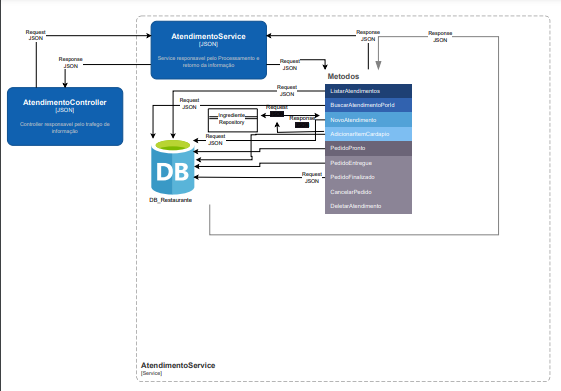
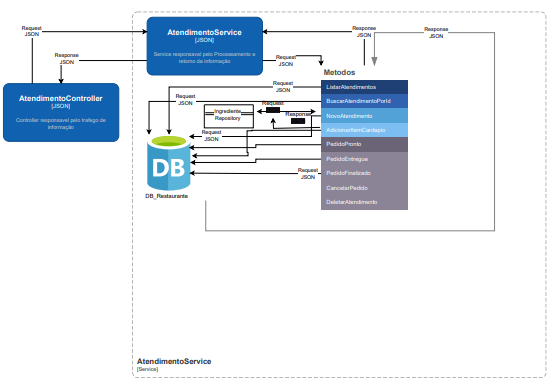
Documentação Iniciada
Imagens revisadas e atualizadas conforme necessidade, textos inseridos estaticamente na pagina index, tendo em vista a função da pagina não sendo visto neste momento a utilização de mecanismo de inserção dinâmico

diff --git a/Restaurante/src/main/resources/templates/index.html b/Restaurante/src/main/resources/templates/index.html
@@ -3,7 +3,6 @@
     <head>
         <meta charset="UTF-8" />
         <meta name="viewport" content="width=device-width,initial-scale=1.0,minimum-scale=1.0" />
-        <link rel="stylesheet" type="text/css" href="./CSS/index.css">
         <title>API RESTAURANTE/LANCHONETE</title>
         <style>
             @import url('https://cdn.jsdelivr.net/npm/reset-css@5.0.1/reset.min.css');
@@ -26,13 +25,15 @@
 
             section{ width: 100%;height: auto;}
 
-            .conteudobox{width: 90%;height: auto;;margin: 0 auto;}
+            .conteudobox{width: 90%;height: auto;margin: 0 auto; text-align: center;}
 
             .conteudobox h2{font-family: 'Segoe UI', Tahoma, Geneva, Verdana, sans-serif;font-size: 30px;margin: 25px;}
 
-            .conteudobox p{font-size: 18px;font-family: 'Lucida Sans', 'Lucida Sans Regular', 'Lucida Grande', 'Lucida Sans Unicode', Geneva, Verdana, sans-serif; color: black;}
+            .conteudobox p{ text-indent:2em; line-height: 2em;  margin-top: 15px; margin-bottom: 15px; text-align: justify;  font-family: 'Lucida Sans', 'Lucida Sans Regular', 'Lucida Grande', 'Lucida Sans Unicode', Geneva, Verdana, sans-serif; color: black;}
 
-            .conteudobox ul, li{font-size: 18px;font-family: 'Lucida Sans', 'Lucida Sans Regular', 'Lucida Grande', 'Lucida Sans Unicode', Geneva, Verdana, sans-serif;   color: black;}
+            .conteudobox ul, li{line-height: 2em; list-style: circle;  text-align: left; font-size: 18px;font-family: 'Lucida Sans', 'Lucida Sans Regular', 'Lucida Grande', 'Lucida Sans Unicode', Geneva, Verdana, sans-serif;   color: black;}
+            
+            img{margin: 15px;}
         </style>
     </head>
     <body>
@@ -44,57 +45,128 @@
 
                 <nav>
                     <div class="navbox">
-                        <a href="">Inicio</a>
-                        <a href="">Problema</a>
-                        <a href="">Objetivo</a>
-                        <a href="">Diagramas</a>
-                        <a href="">Regra de negócio</a>
-                        <a href="">Manual</a>
-                        <a href="">Contato</a>
+                        <a href="#Home">Inicio</a>
+                        <a href="#Problema">Problema</a>
+                        <a href="#Objetivo">Objetivo</a>
+                        <a href="#Diagramas">Diagramas</a>
+                        <a href="#Regra_negocio">Regra de negócio</a>
+                        <a href="#Manual">Manual</a>
+                        <a href="#Contato">Contato</a>
                     </div>
                 </nav>
 
             </div>
 
-            <section>
+            <section id="Home">
                 
                 <div class="conteudobox">
-                    <h2>PROBLEMA</h2>
+                    <h2 id="Problema">PROBLEMA</h2>
+                    <p>
+                        A gerência de um estabelecimento da área de alimentação, requer uma gerência, complexa, pelo fato de ser vários setores se conversando e trocando informações entre si, de modo que um depende totalmente do bom desempenho do outro.                    </p>
+                    <p>
+                        O fator Humano requer um treinamento adequado, claro e objetivo, de modo que todos os integrantes da equipe saibam suas funções, direitos e deveres, já o fator Sistema que manipula, gerencia as informações produzidas pelas equipes, requer um ajuste fino, adaptado e adequado a cada setor, em relação aquela empresa em questão, pois o funcionamento de cada empreendimento independente o porte e o tamanho funciona de maneira única.                    </p>
+                    <p>
+                        A análise das funções básicas nos trás ao problema de gerência de estoque, precificação dos produtos, de maneira a garantir o funcionamento saudável do negócio.                    </p>
+                </div>
+
+                <div class="conteudobox">
+                    <h2 id="Objetivo">OBJETIVO</h2>
+                    <p>
+                        Possibilitar ao administrador, e sua equipe, uma ferramenta capaz de auxiliar, em funções que devem ser automatizadas, fazendo assim que os membros das equipes desempenhar as funções sabendo que há um sistema para atende-los dando suporte aos mesmos.                    </p>
+                    <p>
+                        garantir que haja uma base automatizada para cálculos internos, do cadastro da nota fiscal com a segurança de que não haja erro de valores, pois internamente há fatores que impossibilitam o erro, trazendo segurança e transparência, e evitando problemas no calculo financeiro posteriormente.                     </p>
+                    <p>
+                        A Precificação dos produtos é baseada em porcentagem aplicadas internamente, no ato do cadastro de produtos(matéria prima para particionamento em ingredientes) e novamente na união dos ingredientes em itens disponíveis no cardápio valorizando assim o trabalho das equipes envolvidas.                    </p>
+                </div>
+
+                <div class="conteudobox">
+                    <h2 id="Diagramas">DIAGRAMAS</h2>
+                        <img width="70%"height="400px" src="./Imagem/d1.PNG"/>
+                        <img width="70%"height="350px" src="./Imagem/d2.PNG"/>
+                        <img width="70%"height="350px" src="./Imagem/d3.PNG"/>
+                        <img width="70%"height="350px" src="./Imagem/d4.PNG"/>
+                        <img width="70%"height="350px" src="./Imagem/d5.PNG"/>
+                        <img width="70%"height="350px" src="./Imagem/d6.PNG"/>
+                        <img width="70%"height="350px" src="./Imagem/d7.PNG"/>
+                </div>
+
+                <div class="conteudobox">
+                    <h2 id="Regra_negocio">REGRAS DE NEGÓCIO</h2>
+                    <p>
+                        <h2>1.Fornecedor</h2>
+                        <ul>
+                            <li>1.1 - Os campos não podem ser nulos</li>
+                            <li>1.2 - A data de início  de contrato deve ser inserida no formato: dd/mm/aaaa exemplo: 10/02/2024 </li>
+                            <li>1.3 - O campo CNPJ não deve conter letras</li>
+                            <li>1.4 - O campos Telefone não deve conter letras</li>
+                            <li>1.5 - Os campos Email deve ser um email válido para contato</li>
+                            <li>1.6 - Os campos CEP deve conter apenas números</li>
+                            <li>1.7 - As datas de controle são obtidas automaticamente pelo sistema</li>
+                        </ul>
+                    </p>
+                    <p>
+                        <h2>2.Nota Fiscal</h2>
+                        <ul>
+                            <li>2.1 - Os campos não podem ser nulos</li>
+                            <li>2.2 - O Fornecedor deve ter sido inserida no banco de dados para que o processo seja concluido comn sucesso</li>
+                            <li>2.3 - O valor da nota deve ser inserida integralmente, sendo lançada o valor relacionada a cada produto posteriormente</li>
+                            <li>2.4 - No valor da nota fiscal há um controle que garante o lançamento integral do valor cadastrado</li>
+                            <li>2.5 - O campo Valor Nota Fiscal não deve conter letras</li>
+                            <li>2.6 - O campos Numero Nota Fiscal não deve conter letras</li>
+                            <li>2.7 - As Datas de controle são obtidos automaticamente</li>
+                        </ul>
+                    </p>
+                    <p>
+                        <h2>3.Produto</h2>
+                        <ul>
+                            <li>3.1 - Os campos não podem ser nulos</li>
+                            <li>3.2 - A Nota Fiscal deve ter sido inserida no banco de dados para que o processo seja concluído com sucesso</li>
+                            <li>3.3 - O valor da nota fiscal relacionada ao produto deve ser individual para cada item, para que o processo aconteça corretamente</li>
+                            <li>3.4 - O campo Nome deve ser breve e objetivo</li>
+                            <li>3.5 - O campo Descrição deve ser breve e objetivo</li>
+                            <li>3.6 - O campos Quantidade está relacionado de acordo com a unidade de medida selecionada, adequada a cada produto</li>
+                            <li>3.7 - O campos Porcentagem é a primeira adição de valor, ela não pode ser alterada posteriormente em relação a nota fiscal de entrada do produto, podendo ser alterado somente com o lançamento de uma nova nota fiscal</li>
+                            <li>3.8 - As Datas de controle são obtidos automaticamente</li>
+                        </ul>
+                    </p>
+                    <p>
+                        <h2>4.ingredientes</h2>
+                        <ul>
+                            <li>4.1 - Os campos não podem ser nulos</li>
+                            <li>4.2 - O produto/Matéria prima deve ter sido inserida no banco de dados para que o processo seja concluído com sucesso</li>
+                            <li>4.3 - O campo Nome deve ser breve e objetivo</li>
+                            <li>4.4 - O campo Descrição deve ser breve e objetivo</li>
+                            <li>4.5 - O campos Quantidade está relacionado com o estoque do ingrediente</li>
+                            <li>4.6 - O campos Quantidade de produto está relacionado com a quantidade necessária para o preparo do ingredientes em "g" quando a unidade de medida selecionada na entidade produto for "KG" e "ml" em "L"</li>
+                            <li>4.7 - Há cálculos automatizados para fazer a redução automática no estoque do produto</li>
+                            <li>4.8 - As Datas de controle são obtidos automaticamente</li>
+                        </ul>
+                    </p>
+                    <p>
+                        <h2>5.Item Cardápio</h2>
+                        <ul>
+                            <li>5.1 - Os campos não podem ser nulos</li>
+                            <li>5.2 - O ingrediente deve ter sido inserido no banco de dados para que o processo seja concluído com sucesso.</li>
+                            <li>5.3 - É possível utilizar vários ingredientes para criação do item, todos devem existir no banco de dados para que o processo seja concluído com sucesso.</li>
+                            <li>5.4 - O campo Nome deve ser breve e objetivo</li>
+                            <li>5.5 - O campo Descrição deve ser breve e objetivo</li>
+                            <li>5.6 - O campos Quantidade reservada é preenchido automaticamente pelo sistema</li>
+                            <li>5.7 - A porcentagem aplicada nesta fase leva em conta o custo do preparo dos ingredientes e o lucro desejado no produto final disponível para venda</li>
+                            <li>5.8 - Há cálculos automatizados para fazer a redução automática no estoque do ingrediente, assim como reserva garantindo que ao pedir um item tenha os ingredientes necessários</li>
+                            <li>5.9 - As Datas de controle são obtidos automaticamente</li>
+                        </ul>
+                    </p>
+                </div>
+
+                <div class="conteudobox">
+                    <h2 id="Manual">MANUAL</h2>
                     <p>
                         
                     </p>
                 </div>
 
                 <div class="conteudobox">
-                    <h2>OBJETIVO</h2>
-                    <p>
-                        
-                    </p>
-                </div>
-
-                <div class="conteudobox">
-                    <h2>DIAGRAMAS</h2>
-                    <p>
-                        
-                    </p>
-                </div>
-
-                <div class="conteudobox">
-                    <h2>REGRAS DE NEGÓCIO</h2>
-                    <p>
-                        
-                    </p>
-                </div>
-
-                <div class="conteudobox">
-                    <h2>MANUAL</h2>
-                    <p>
-                        
-                    </p>
-                </div>
-
-                <div class="conteudobox">
-                    <h2>CONTATO</h2>
+                    <h2 id="Contato">CONTATO</h2>
                     <p>
                         
                     </p>
